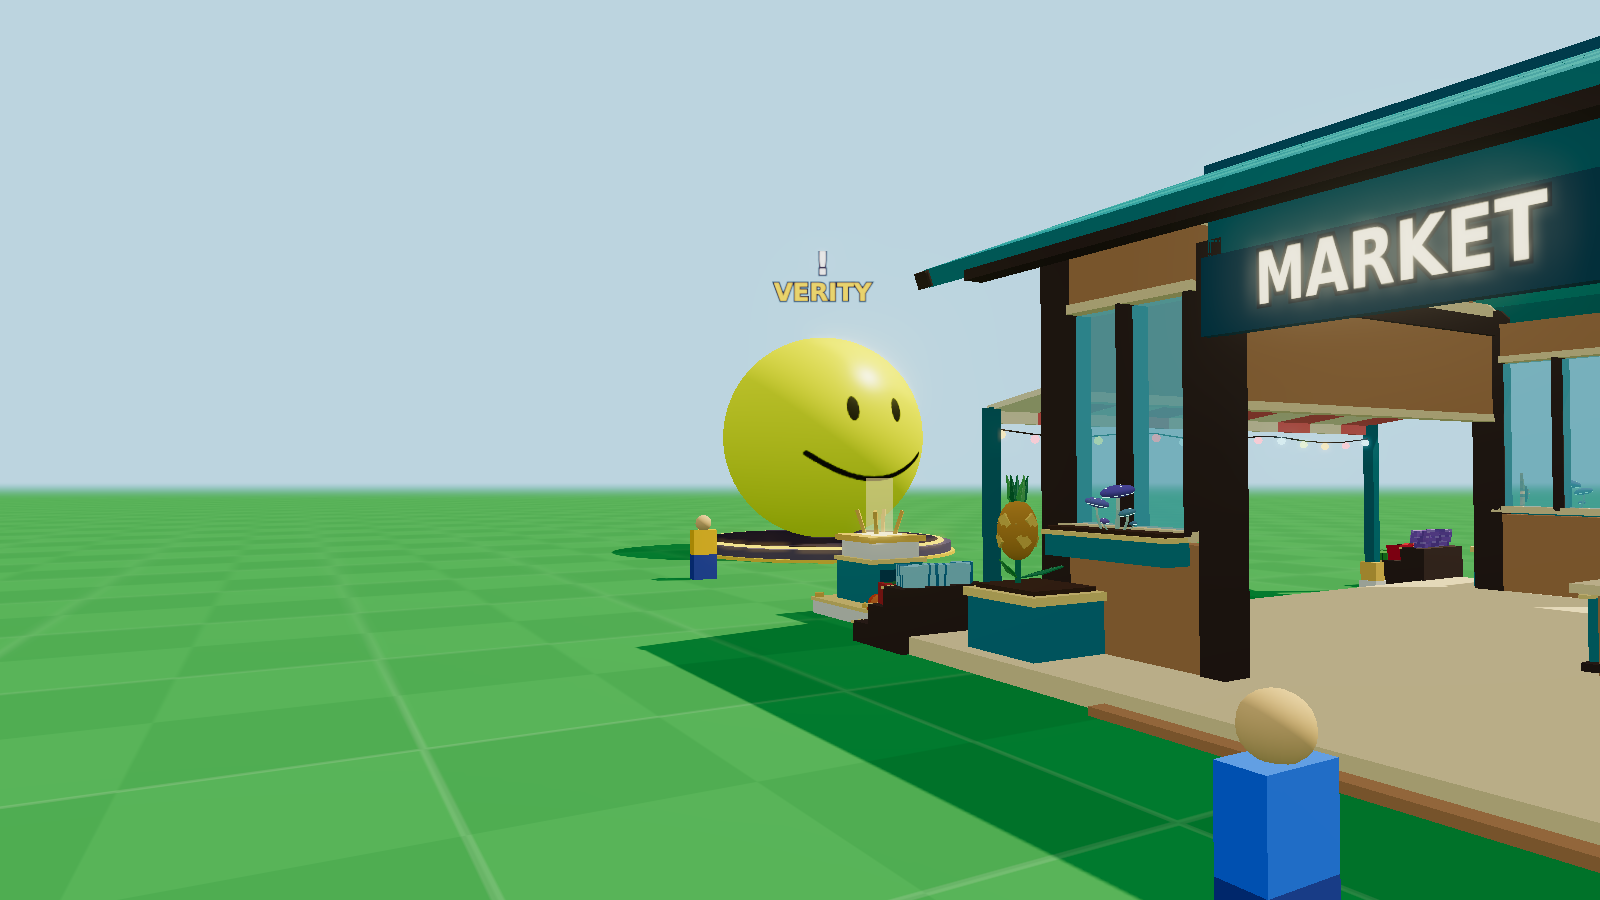
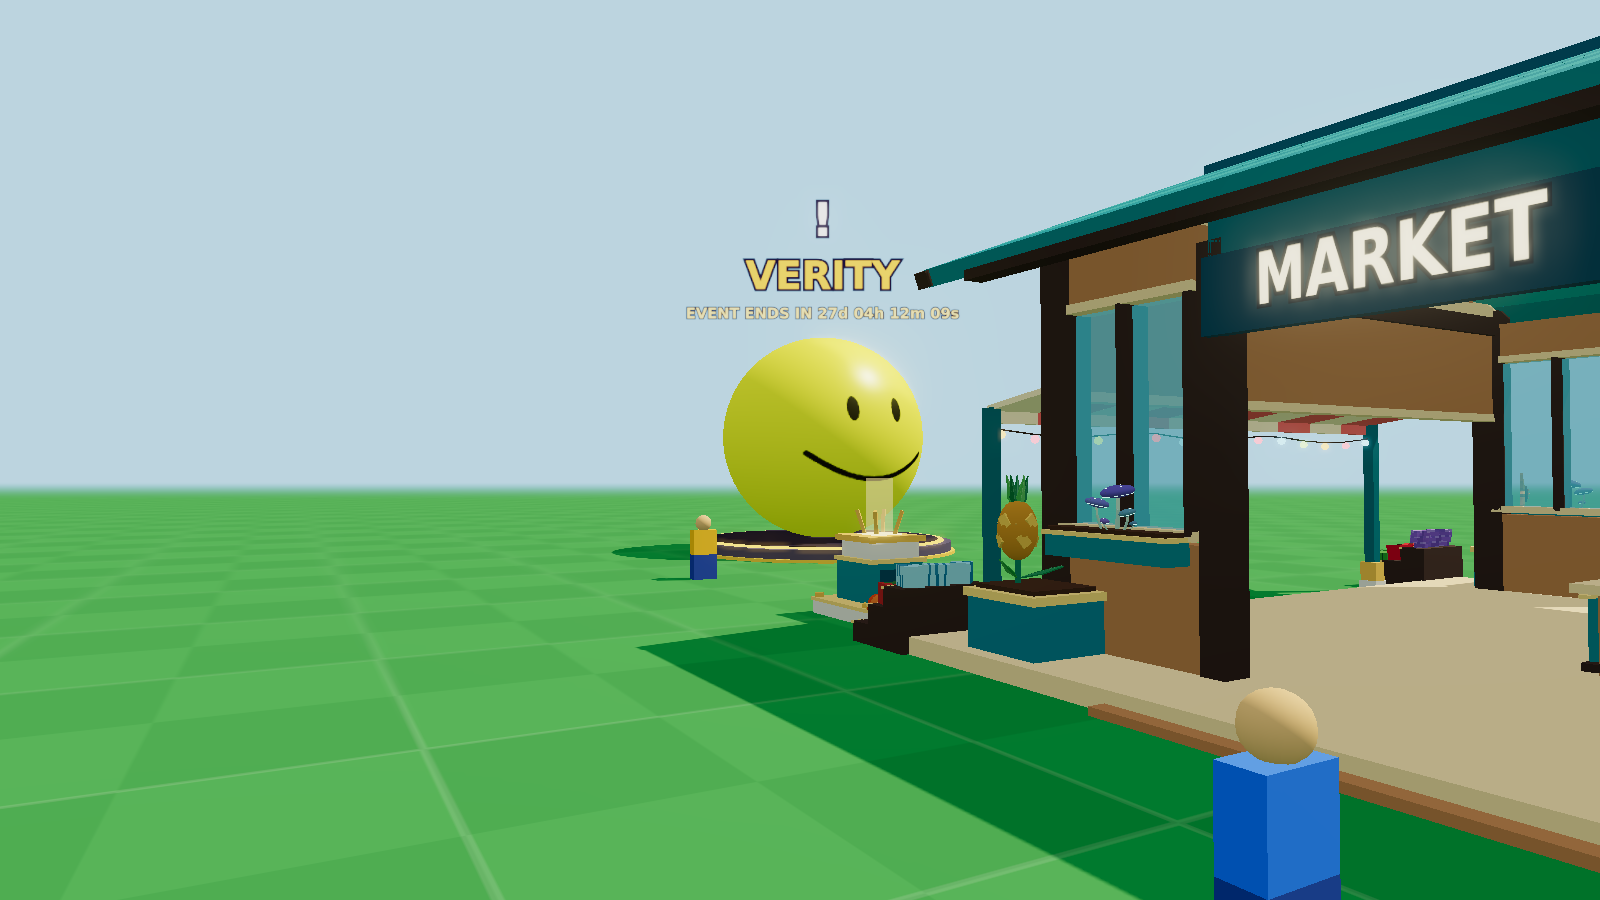
R148: Verity's "!" goes away once you talk to her, her sign stacks without overlap, and the limited event timer
Owner: the "!" sits on top of the VERITY name; after clicking onto Verity it should go away until the next join; make sure it
never overlaps the name; and a 27 days / hrs / mins / s timer for Verity's event (LimitedEvent, ends 2026-11-01 00:00 UTC).

- "!": gone for the rest of the session once her dialog has opened (a refusal does not count; a rejoin shows it again). The
  bouncing gold "?" with a Void Pack is a separate cue and stays; after the event neither shows.
- Sign: one studs-sized BillboardGui (VerityConfig.Sign): marker row, gap, name, timer line. Rows cannot overlap (the glyph rests
  on the bottom of its row and bounces up inside it), and the sign is offset in camera space so its bottom edge clears her
  silhouette by 1.6 studs at any camera angle, also while she bobs and swells with her voice.
- Event: "EVENT ENDS IN 27d 04h 12m 09s" (LimitedEvent.Text, server clock) in her dialog, ticking every second while it is open,
  and as a small line under her name. After the end: the server refuses every hand-in first ("THE VERITY EVENT HAS ENDED"), the
  dialog says EVENT ENDED and GIVE is disabled, her sign says EVENT ENDED, no marker; she still opens her dialog.
- Tests: test_verity 176 checks, test_verity_client 185; 31 deliberate breakages all caught. Preview renders updated.

Claude-Session: https://claude.ai/code/session_01Ac4FxUwwkEJHAEFYr1TRJi

Changed region(s): [[0.4062, 0.2178, 0.5938, 0.3733]]

diff --git a/docs/proposals/R148/preview/view.html b/docs/proposals/R148/preview/view.html
@@ -65,11 +65,17 @@ function decalBall(color,decals){
   g.putImageData(img,0,0);const t=new THREE.CanvasTexture(cv);t.colorSpace=THREE.SRGBColorSpace;t.anisotropy=8;return t;
 }
 function signSprite(sign){
-  const cv=document.createElement('canvas');cv.width=480;cv.height=240;const g=cv.getContext('2d');g.textAlign='center';g.textBaseline='middle';
-  g.font='900 130px "Arial Rounded MT Bold","DejaVu Sans",sans-serif';g.lineWidth=14;g.strokeStyle='rgba(40,22,70,1)';g.strokeText(sign.mark,240,62);g.fillStyle='#fff';g.fillText(sign.mark,240,62);
-  for(const l of sign.lines){g.font='900 100px "Arial Rounded MT Bold","DejaVu Sans",sans-serif';g.lineWidth=12;g.strokeStyle='rgba(30,20,60,.95)';g.strokeText(l.text,240,178);g.fillStyle=`rgb(${l.color[0]},${l.color[1]},${l.color[2]})`;g.fillText(l.text,240,178);}
+  // One studs-sized sign: the "!" row on top, a gap, the name, the event timer line (rows from VerityConfig.Sign).
+  const PX=22;const cw=Math.round(sign.w*PX),ch=Math.round(sign.h*PX);
+  const cv=document.createElement('canvas');cv.width=cw;cv.height=ch;const g=cv.getContext('2d');g.textAlign='center';g.textBaseline='middle';
+  const row=(r,text,color,fill,k)=>{const y0=r[0]*PX,y1=r[1]*PX,h=y1-y0;let size=h*k;g.font=`900 ${size}px "Arial Rounded MT Bold","DejaVu Sans",sans-serif`;
+    while(size>6&&g.measureText(text).width>cw*.98){size*=.94;g.font=`900 ${size}px "Arial Rounded MT Bold","DejaVu Sans",sans-serif`;}
+    g.lineWidth=Math.max(2,size*.12);g.strokeStyle='rgba(40,22,70,1)';g.strokeText(text,cw/2,(y0+y1)/2);g.fillStyle=fill;g.fillText(text,cw/2,(y0+y1)/2);};
+  row([sign.rows.mark[0]+1.6,sign.rows.mark[1]],sign.mark,'#fff','#fff',.95);
+  row(sign.rows.name,sign.name,`rgb(${sign.nameColor[0]},${sign.nameColor[1]},${sign.nameColor[2]})`,`rgb(${sign.nameColor[0]},${sign.nameColor[1]},${sign.nameColor[2]})`,.95);
+  row(sign.rows.timer,sign.timer,'#ffec96','#ffec96',.95);
   const t=new THREE.CanvasTexture(cv);t.colorSpace=THREE.SRGBColorSpace;
-  const s=new THREE.Sprite(new THREE.SpriteMaterial({map:t,transparent:true,depthWrite:false,toneMapped:false}));s.position.set(...sign.p);s.scale.set(13,6.5,1);return s;
+  const s=new THREE.Sprite(new THREE.SpriteMaterial({map:t,transparent:true,depthWrite:false,toneMapped:false}));s.position.set(...sign.p);s.scale.set(sign.w,sign.h,1);return s;
 }
 // A Roblox-sized avatar (about 5 studs tall) for scale.
 function person(x,y,z,shirt){
